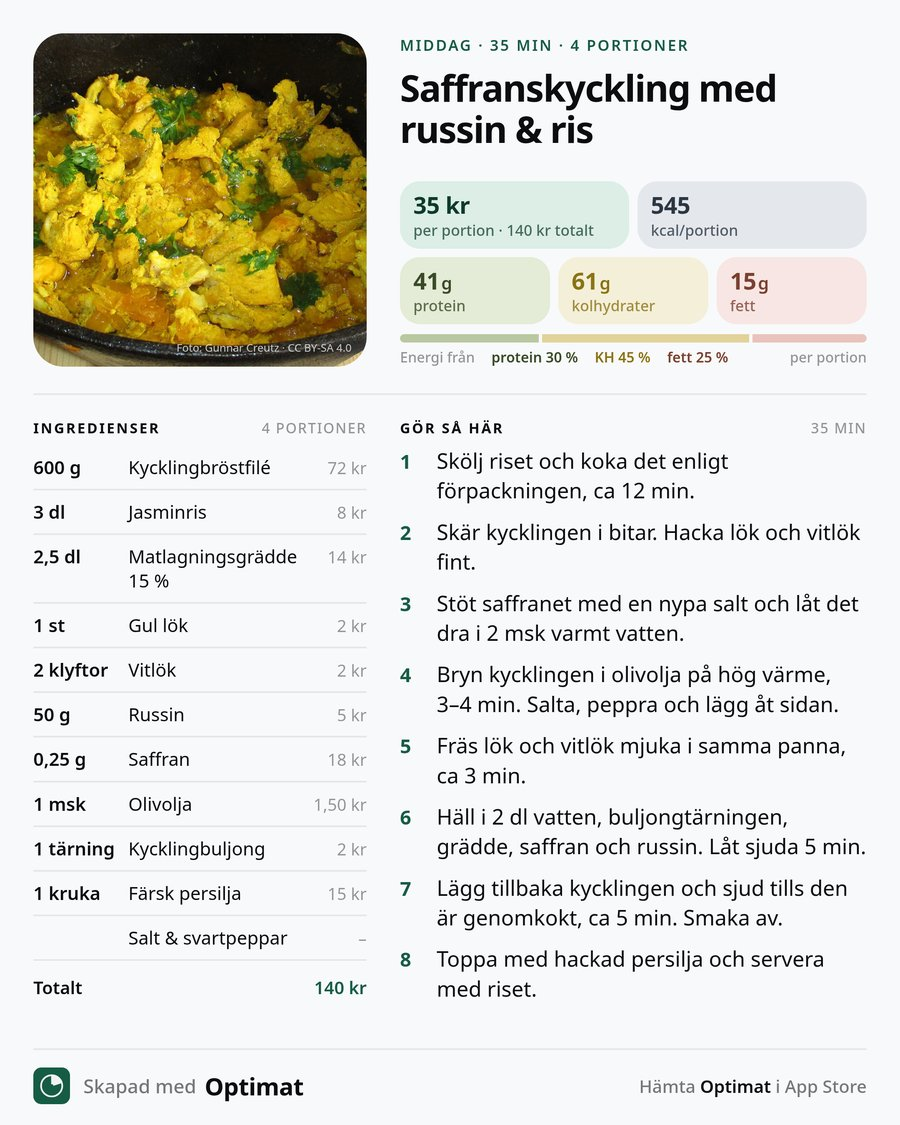
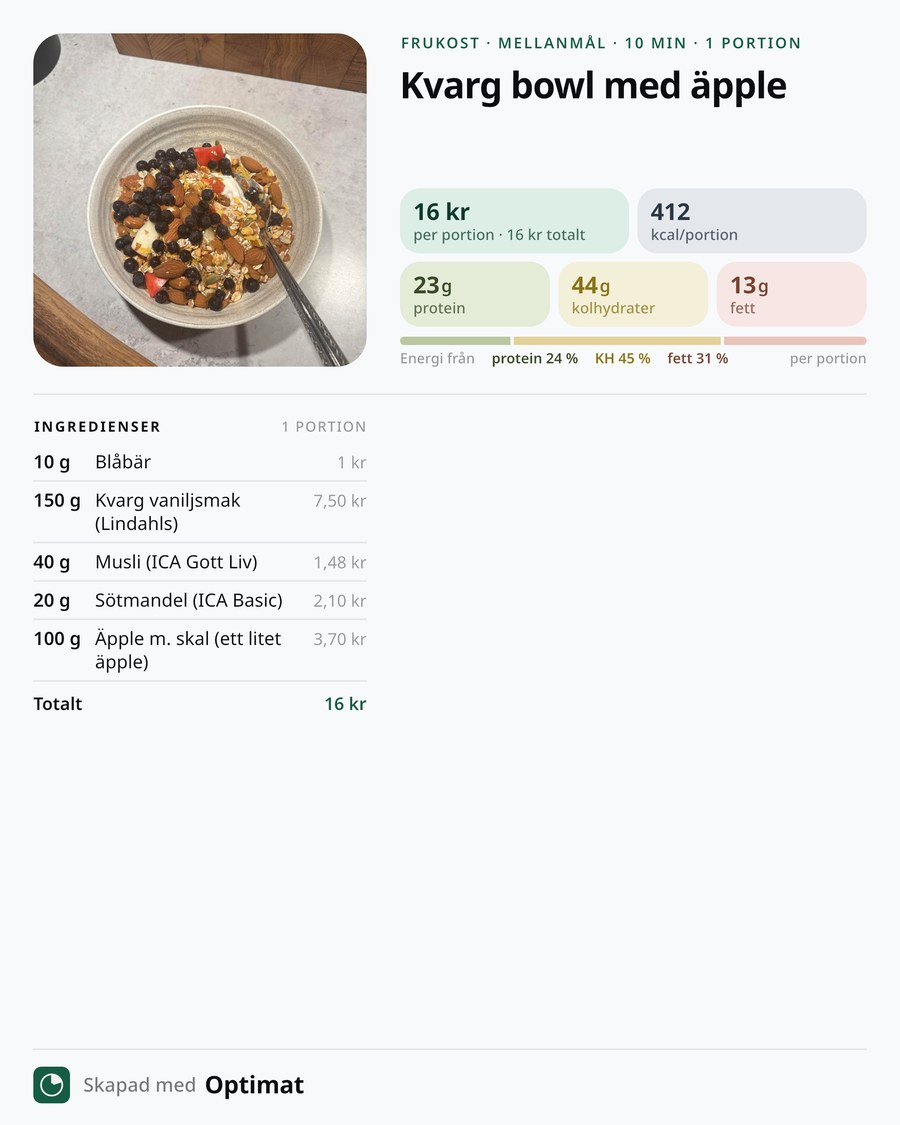
Alternate feature rows and use the Kvarg bowl share image.
Put the phone on the left in rows 01 and 03 so it does not stack under the hero phone, and replace the Saffranskyckling sample with the Kvarg bowl export.

diff --git a/index.html b/index.html
@@ -51,26 +51,26 @@
     </section>
 
     <div class="wrap rows">
-      <section class="row" aria-labelledby="f1">
+      <section class="row flip" aria-labelledby="f1">
         <div class="text"><p class="num">01</p><h2 id="f1">Skanna varor</h2>
         <p class="body">Rikta kameran mot streckkoden så hittar Optimat produkten. Du kan också söka i Livsmedelsverkets svenska näringsdata och i Open Food Facts.</p></div>
         <div class="media"><div class="phone"><picture><source srcset="assets/scan.webp" type="image/webp"><img  src="assets/scan.jpg" width="720" height="1561" alt="Skärmen Skanna streckkod i Optimat, med kameran riktad mot en yoghurtburk." loading="lazy" decoding="async"></picture></div></div>
       </section>
-      <section class="row flip" aria-labelledby="f2">
+      <section class="row" aria-labelledby="f2">
         <div class="text"><p class="num">02</p><h2 id="f2">Sortera skafferiet</h2>
         <p class="body">Sortera varorna på pris, protein, fett eller namn. Se direkt vad ett gram protein kostar, med priser du lagt in själv.</p></div>
         <div class="media"><div class="phone"><picture><source srcset="assets/pantry.webp" type="image/webp"><img  src="assets/pantry.jpg" width="720" height="1561" alt="Skafferiet i Optimat sorterat på protein, med pris per gram protein för varje vara." loading="lazy" decoding="async"></picture></div></div>
       </section>
-      <section class="row" aria-labelledby="f3">
+      <section class="row flip" aria-labelledby="f3">
         <div class="text"><p class="num">03</p><h2 id="f3">Bygg recept</h2>
         <p class="body">Lägg till ingredienser och följ energi, protein, kolhydrater och fett per portion medan du bygger. Lägg in kostnad och se pris per portion. Sätt egna mål.</p>
         <ul class="chips" aria-label="Näringsvärden per portion"><li class="c-e">Energi</li><li class="c-p">Protein</li><li class="c-k">Kolhydrater</li><li class="c-f">Fett</li></ul></div>
         <div class="media"><div class="phone"><picture><source srcset="assets/goal.webp" type="image/webp"><img  src="assets/goal.jpg" width="720" height="1561" alt="Ett recept i Optimat med ingredienslista och egna mål för protein, kolhydrater och fett." loading="lazy" decoding="async"></picture></div></div>
       </section>
-      <section class="row flip" aria-labelledby="f4">
+      <section class="row" aria-labelledby="f4">
         <div class="text"><p class="num">04</p><h2 id="f4">Dela som bild</h2>
         <p class="body">Dela receptet som en bild med foto, ingredienser, instruktioner, pris och makron per portion.</p></div>
-        <div class="media"><picture><source srcset="assets/share.webp" type="image/webp"><img class="share-img" src="assets/share.jpg" width="900" height="1125" alt="Exempel på en delad receptbild: Saffranskyckling med russin och ris, med pris, kcal och makron per portion, ingredienser och steg." loading="lazy" decoding="async"></picture></div>
+        <div class="media"><picture><source srcset="assets/share.webp" type="image/webp"><img class="share-img" src="assets/share.jpg" width="900" height="1125" alt="Delad receptbild för Kvarg bowl med äpple: foto på en skål med kvarg och äpple, pris per portion 5,27 kr, 333 kcal, 28 g protein, 35 g kolhydrater och 8 g fett, samt ingredienserna kvarg, äpple och honung." loading="lazy" decoding="async"></picture></div>
       </section>
     </div>
 

diff --git a/README.md b/README.md
@@ -20,7 +20,7 @@ assets/
   og.png                   1200×630 Open Graph image
   scan, pantry, recipe,    .webp + .jpg product screenshots, 720 px wide
   goal
-  share.webp / share.jpg   Sample share image (Saffranskyckling), 900 px wide
+  share.webp / share.jpg   Sample share image (Kvarg bowl med äpple), 900×1125
   fonts/                   noto-sans-latin.woff2, noto-sans-latin-ext.woff2
 docs/REVIEW.md             Critique of the previous site, written before this redesign
 tools/make-screens.py      Regenerates the phone screenshots from source PNGs
@@ -58,7 +58,7 @@ To mimic the GitHub Pages subpath, serve a parent directory that contains this r
 ## Design notes
 
 - Cardless. Structure comes from the type scale, whitespace, and hairlines (`--line`). The only container on the landing page is the dark green final call to action (`.final`). Phone frames are CSS only (`.phone`, scaled by `--w`).
-- Sections: header, hero (headline, store button, phone), four feature rows (`.row`; `.row.flip` alternates the side), an "Enkelt och privat" strip (`.facts`), the final call to action, and the footer.
+- Sections: header, hero (headline, store button, phone on the right), four feature rows, an "Enkelt och privat" strip (`.facts`), the final call to action, and the footer. From 900 px, `.row.flip` puts the image on the left. Rows 01 and 03 use it, so the first phone sits opposite the hero phone; rows 02 and 04 keep the image on the right. Below 900 px every row stacks the text above the image.
 - App Store buttons are text pills (`.btn`) with a small Apple glyph. They link to https://apps.apple.com/se/app/optimat/id6814617783. Apple's official "Download on the App Store" badge artwork is not included.
 - The page does not state a price in kronor. It says the app is a one-time purchase and that the current price is shown in the App Store.
 - Copy on the landing page is Swedish. The hero heading is an `h1`. Feature rows, the privacy strip, and the final call to action use `h2`.
